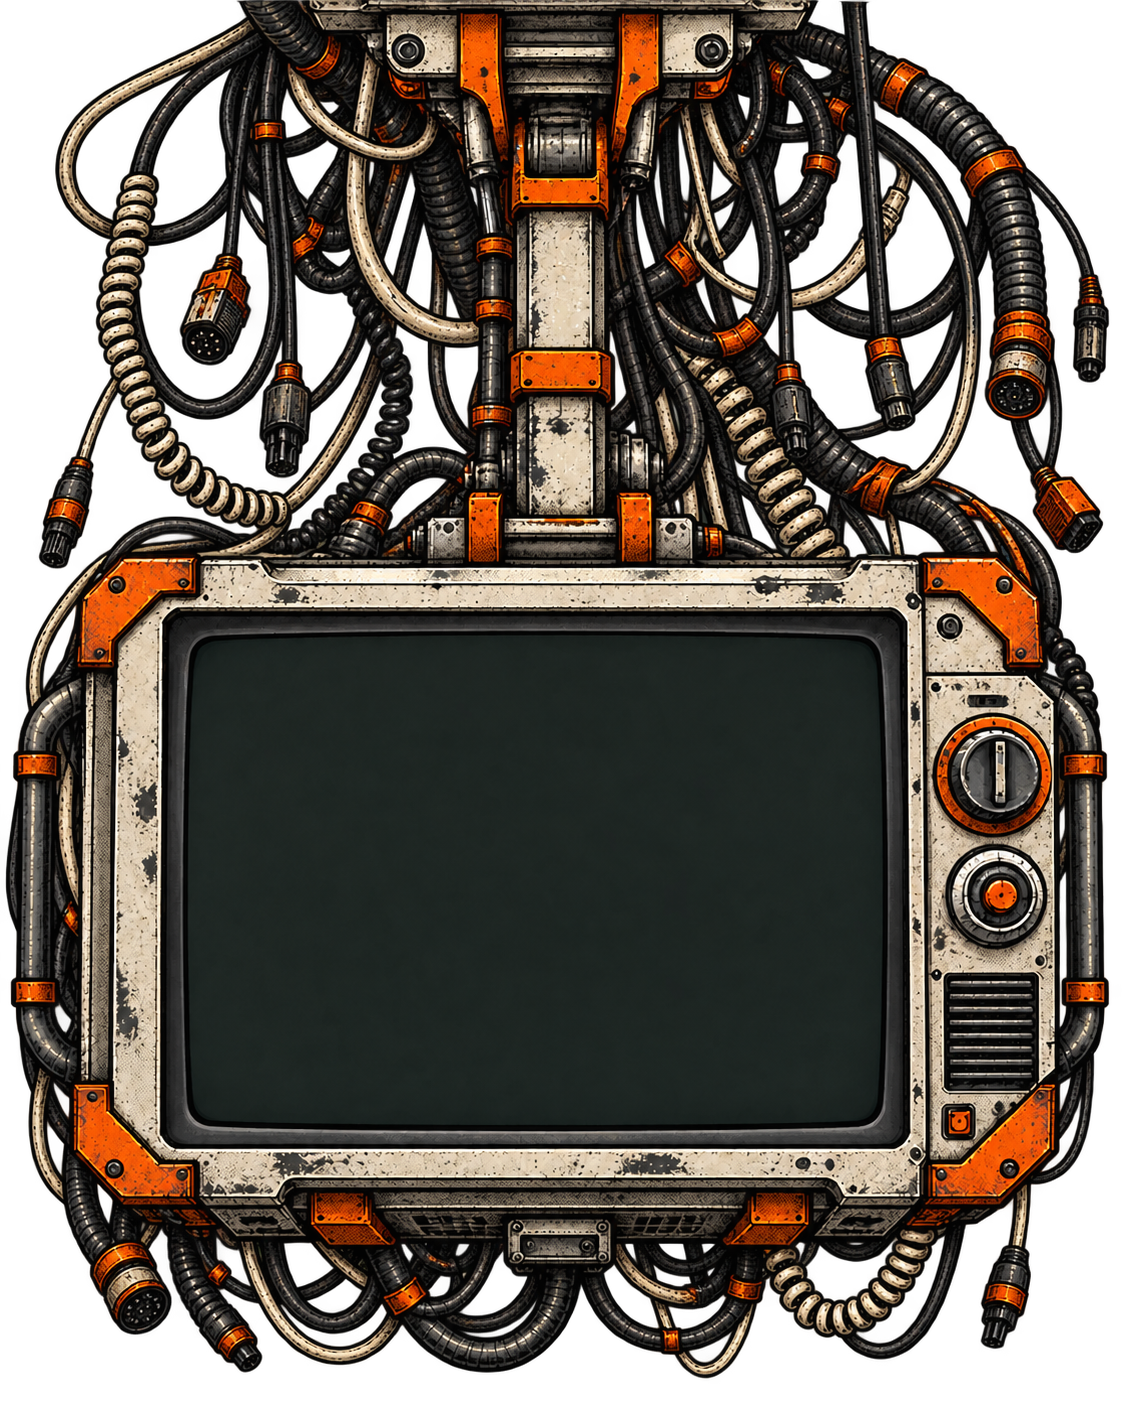
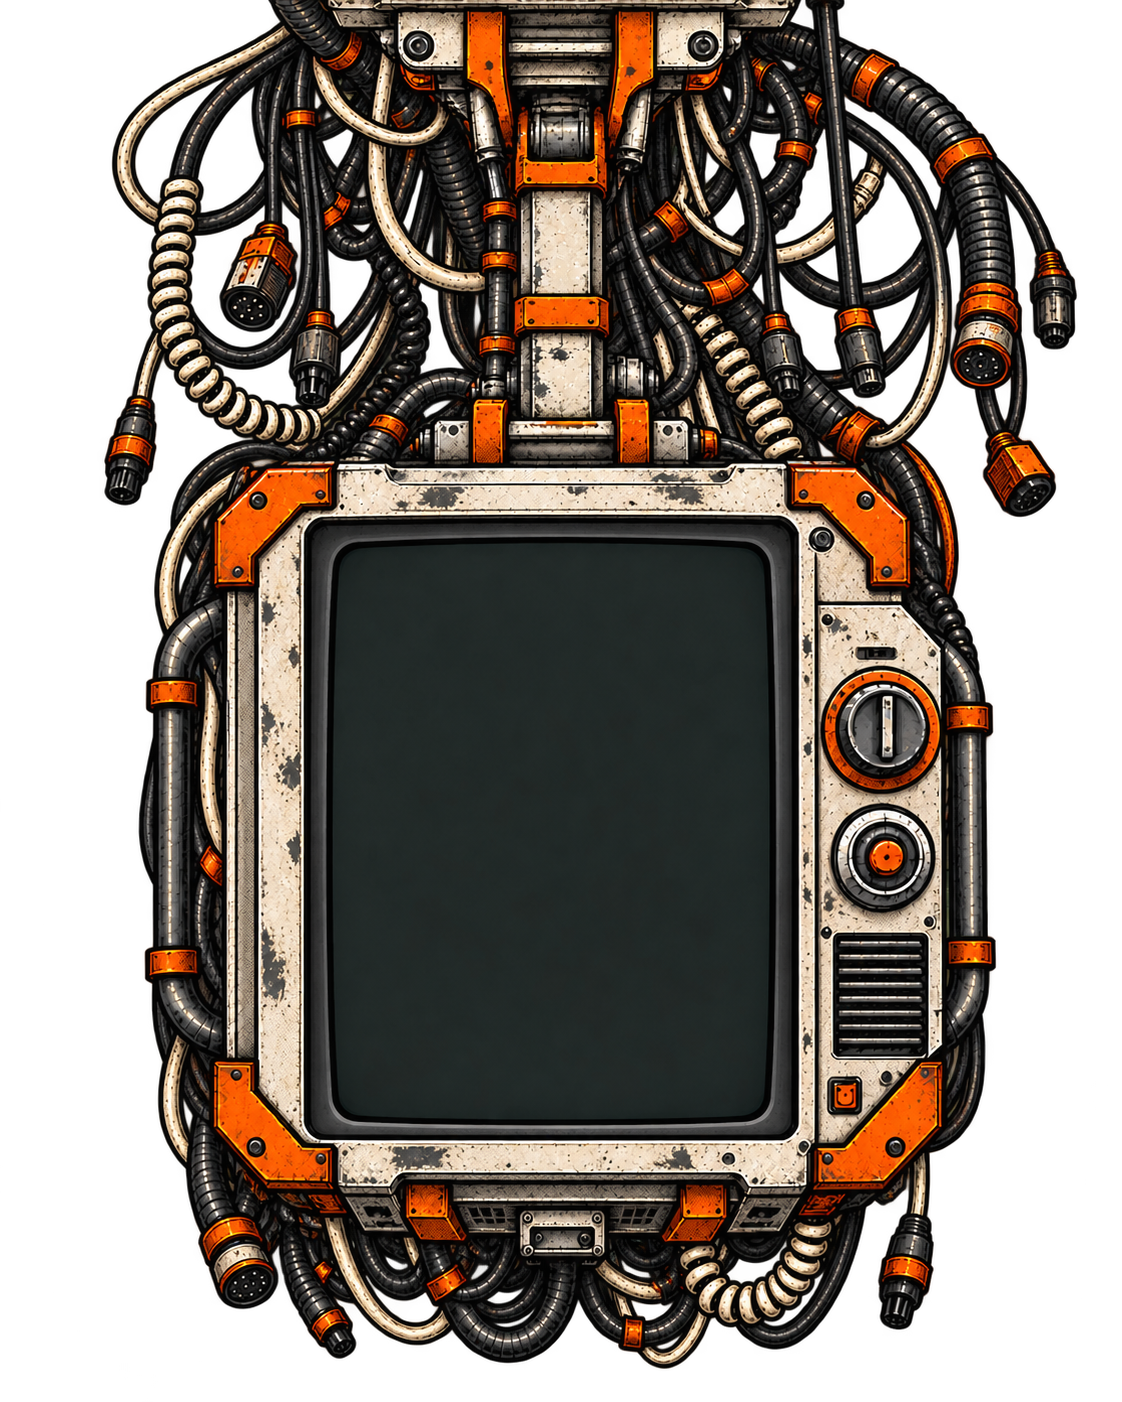
Redraw portrait TV and fill its screen with crew or join code

diff --git a/web/menu.css b/web/menu.css
@@ -168,7 +168,7 @@ button.selected {
 	position: absolute;
 	top: 0;
 	right: 20px;
-	width: 264px;
+	width: var(--crt-display-width, 264px);
 	pointer-events: none;
 }
 .crt-screen {
@@ -185,10 +185,11 @@ button.selected {
 	color: #cbe4c5;
 }
 .crt-avatar {
-	width: 48px;
-	height: 48px;
-	flex-shrink: 0;
-	object-fit: contain;
+	width: 100%;
+	height: calc(100% - 24px);
+	flex: 1;
+	min-height: 0;
+	object-fit: cover;
 	background: #15231a;
 	text-align: center;
 }
@@ -196,8 +197,10 @@ button.selected {
 	width: 100%;
 	font-size: 16px;
 	line-height: 20px;
-	margin-top: 4px;
-	max-height: 40px;
+	margin: 0;
+	height: 24px;
+	flex-shrink: 0;
+	background: #101918;
 	text-align: center;
 	overflow: hidden;
 	overflow-wrap: anywhere;

diff --git a/src/presentation/menu.cpp b/src/presentation/menu.cpp
@@ -47,6 +47,8 @@ struct NativeMenuScreen::State
 	float scutter_aspect = 1;
 	double panorama_phase = 0, panorama_period = 720;
 	float terminal_aspect = 1;
+	float terminal_width = 264;
+	std::map<std::string, Bytes> crew_portraits;
 	std::string join_qr_url;
 	TextureCache avatar_textures;
 	std::uint64_t avatar_screen = 0;
@@ -683,7 +685,8 @@ struct NativeMenuScreen::State
 						{
 							prepare_qr(app, lobby.code);
 							markup += "<div id=\"menu-profile\" class=\"menu-crt host-crt\"><div class=\"crt-screen\">"
-							          "<div id=\"menu-join-qr\"></div></div></div>";
+							          "<div id=\"menu-join-qr\"></div><p class=\"crt-name\">" +
+							          Rml::StringUtilities::EncodeRml(lobby.code) + "</p></div></div>";
 						}
 						catch (const std::exception &error)
 						{
@@ -1188,17 +1191,12 @@ struct NativeMenuScreen::State
 			for (auto *screen : screens)
 				screen->SetProperty("opacity", std::to_string(ambient.television_opacity()));
 		}
-		const float profile_width = compact ? 140.8f : 264.f;
+		const float profile_width = terminal_width * (compact ? .533333f : 1.f);
 		if (auto *profile = document.GetElementById("menu-profile"))
 		{
 			profile->SetProperty("width", std::to_string(profile_width) + "px");
 			profile->SetProperty("height", std::to_string(profile_width * terminal_aspect) + "px");
 			profile->SetProperty("font-size", compact ? "11px" : "16px");
-		}
-		if (auto *avatar = document.GetElementById("menu-profile-avatar"))
-		{
-			avatar->SetProperty("width", compact ? "24px" : "48px");
-			avatar->SetProperty("height", compact ? "24px" : "48px");
 		}
 		if (auto *title = document.GetElementById("menu-title"))
 		{
@@ -1342,7 +1340,7 @@ void NativeMenuScreen::draw(const Application &app, Rml::ElementDocument &docume
 	if (!app.native_menu || (app.screen != Screen::home && app.screen != Screen::server_lobby &&
 	                         app.screen != Screen::client_lobby && app.screen != Screen::settings))
 		return;
-	auto draw = [&](const std::string &id, Texture2D texture, bool integer_scale = false)
+	auto draw = [&](const std::string &id, Texture2D texture)
 	{
 		if (!texture.id)
 			return;
@@ -1371,9 +1369,16 @@ void NativeMenuScreen::draw(const Application &app, Rml::ElementDocument &docume
 			                 static_cast<int>(clip.height));
 			float scale =
 			    std::min(element->GetClientWidth() / texture.width, element->GetClientHeight() / texture.height);
-			if (integer_scale)
-				scale = std::floor(scale);
-			if (scale > 0)
+			const bool cover = id == "menu-profile-avatar";
+			if (cover)
+			{
+				const float w = element->GetClientWidth(), h = element->GetClientHeight();
+				const float fill = std::max(w / texture.width, h / texture.height);
+				DrawTexturePro(texture,
+				               {(texture.width - w / fill) / 2, (texture.height - h / fill) / 2, w / fill, h / fill},
+				               {at.x, at.y, w, h}, {0, 0}, 0, Fade(WHITE, state_->ambient.television_opacity()));
+			}
+			if (!cover && scale > 0)
 			{
 				const float width = texture.width * scale, height = texture.height * scale;
 				DrawTexturePro(texture, {0, 0, static_cast<float>(texture.width), static_cast<float>(texture.height)},
@@ -1422,9 +1427,11 @@ void NativeMenuScreen::draw(const Application &app, Rml::ElementDocument &docume
 		}
 	if (!app.avatar.empty())
 	{
+		const auto key = sha256(app.avatar);
+		const auto &portrait = state_->crew_portraits.contains(key) ? state_->crew_portraits.at(key) : app.avatar;
 		draw("profile-avatar", state_->avatar_textures.load(sha256(app.avatar), app.avatar));
 		if (app.screen != Screen::settings && !app.packs_popup)
-			draw("menu-profile-avatar", state_->avatar_textures.load(sha256(app.avatar), app.avatar));
+			draw("menu-profile-avatar", state_->avatar_textures.load(key + "/portrait", portrait));
 	}
 	if (app.session)
 		for (const auto &member : app.session->lobby().members)
@@ -1432,7 +1439,7 @@ void NativeMenuScreen::draw(const Application &app, Rml::ElementDocument &docume
 				draw("avatar-" + member.id, state_->avatar_textures.load(sha256(member.avatar), member.avatar));
 	if (app.can_host && app.screen == Screen::server_lobby && !app.packs_popup)
 	{
-		draw("menu-join-qr", state_->join_qr, true);
+		draw("menu-join-qr", state_->join_qr);
 	}
 }
 std::string NativeMenuScreen::style_sheet(const std::string &asset_directory)
@@ -1450,7 +1457,12 @@ std::string NativeMenuScreen::style_sheet(const std::string &asset_directory)
 	};
 	state_->avatar_directory = asset_directory + "/menu";
 	for (int i = 1; i <= 12; ++i)
+	{
 		state_->avatars.push_back(read_file(state_->avatar_directory + "/avatar-" + std::to_string(i) + ".png", 12288));
+		state_->crew_portraits.emplace(
+		    sha256(state_->avatars.back()),
+		    read_file(state_->avatar_directory + "/portrait-" + std::to_string(i) + ".png", 512 * 1024));
+	}
 	state_->button_skin = load("button-generic-9slice.sprite.json", .075f);
 	if (!state_->button_skin.has_label)
 		throw std::runtime_error("Menu button sidecar needs label_center");
@@ -1522,6 +1534,7 @@ std::string NativeMenuScreen::style_sheet(const std::string &asset_directory)
 	if (x < 0 || y < 0 || width <= 0 || height <= 0 || x + width > terminal_width || y + height > terminal_height)
 		throw std::runtime_error("Invalid CRT screen aperture");
 	state_->terminal_aspect = terminal_height / terminal_width;
+	state_->terminal_width = terminal.value("display_width", 264.f);
 	std::string styles = state_->button_skin.sprite_sheet("menu-button") + panel.sprite_sheet("menu-panel");
 	styles += "#native-menu { background:transparent; decorator:image(menu/" +
 	          scene.at("foreground").at("file").get<std::string>() + " cover); }\n";
@@ -1589,11 +1602,11 @@ std::string NativeMenuScreen::style_sheet(const std::string &asset_directory)
     .menu-crt { display:block; position:relative; flex-shrink:0; }
     #menu-profile { position:absolute; top:0; right:20px; border:0px; background:transparent; padding:0px; }
     .crt-screen { position:absolute; display:flex; flex-direction:column; align-items:center; justify-content:center; overflow:hidden; color:#cbe4c5; }
-    .crt-avatar { display:block; flex-shrink:0; text-align:center; background:#15231a; color:#cbe4c5; }
-    #native-menu .crt-name { display:block; width:100%; text-align:center; font-size:1em; margin:4px 0 0; max-height:40px; overflow:hidden; }
+    .crt-avatar { display:block; width:100%; height:85%; flex-shrink:0; text-align:center; background:#15231a; color:#cbe4c5; }
+    #native-menu .crt-name { display:block; width:100%; height:15%; text-align:center; font-size:1em; margin:0; overflow:hidden; background:#101918; }
     .qr-crt { display:block; position:relative; width:440px; overflow:hidden; clip:always; }
     .qr-terminal { position:absolute; left:0; width:440px; }
-    #menu-join-qr { display:block; width:100%; height:100%; }
+    #menu-join-qr { display:block; width:100%; height:85%; }
     )";
 	return styles;
 }

diff --git a/src/presentation/consoles.hpp b/src/presentation/consoles.hpp
@@ -9,6 +9,8 @@ class ConsoleSurface final : public Rml::EventListener
 	bool profile_open_ = false;
 	std::string profile_name_;
 	Bytes profile_avatar_;
+	Json terminal_;
+	std::map<std::string, Bytes> crew_portraits_;
 	Rml::Context *context_ = nullptr;
 	Rml::ElementDocument *document_ = nullptr;
 	ConsoleModel model_;
@@ -98,6 +100,12 @@ public:
 	explicit ConsoleSurface(ConsoleId route, const std::string &prefix = "console-", bool toolbar = true)
 	    : route_(route), context_name_(prefix + std::to_string(route)), toolbar_enabled_(toolbar)
 	{
+		terminal_ =
+		    parse_json(read_file(asset_path("../menu/menu-scene.json"), 64 * 1024), "menu scene").at("terminal");
+		for (int i = 1; i <= 12; ++i)
+			crew_portraits_.emplace(
+			    sha256(read_file(asset_path("../menu/avatar-" + std::to_string(i) + ".png"), 12288)),
+			    read_file(asset_path("../menu/portrait-" + std::to_string(i) + ".png"), 512 * 1024));
 		context_ = Rml::CreateContext(context_name_, {1280, 720});
 		if (!context_)
 			throw std::runtime_error("Cannot create independent Console context");
@@ -122,7 +130,7 @@ p {display:block;font-size:17px;margin:4px 0;}
 .throttle sliderbar {width:100%;background:transparent;}
 .heading-value:focus {border-color:#ffb665;background:#122629;}
 .throttle sliderarrowdec,.throttle sliderarrowinc {display:none;}
-.ready-card {position:absolute;left:10%;top:350px;width:80%;box-sizing:border-box;padding:28px;background:#0b1719ee;border:2px #d48a48;}
+.ready-card {position:absolute;left:10%;top:390px;width:80%;box-sizing:border-box;padding:28px;background:#0b1719ee;border:2px #d48a48;}
 .profile-card {top:18%;}
 .ready-card h1 {display:block;font-size:32px;}
 .ready-card button {min-width:120px;}
@@ -557,8 +565,19 @@ p {display:block;font-size:17px;margin:4px 0;}
 			if (pregame)
 			{
 				button("profile", "Edit profile");
-				lobby += "<button id=\"" + id("profile") + "\" class=\"profile-tv\"><img src=\"" +
-				         asset_path("../menu/crt-terminal.png") + "\" width=\"264\"/><span>" +
+				const float tw = terminal_.value("display_width", 264.f), sw = terminal_.at("size").at(0),
+				            sh = terminal_.at("size").at(1);
+				const auto &aperture = terminal_.at("screen");
+				const float ax = aperture.at("x"), ay = aperture.at("y"), aw = aperture.at("width"),
+				            ah = aperture.at("height");
+				lobby += "<button id=\"" + id("profile") +
+				         "\" class=\"profile-tv\" style=\"width:" + std::to_string(tw) +
+				         "px;height:" + std::to_string(tw * sh / sw) + "px\"><img src=\"" +
+				         asset_path("../menu/crt-terminal.png") + "\" width=\"" + std::to_string(tw) +
+				         "\"/><span style=\"left:" + std::to_string(ax / sw * 100) +
+				         "%;top:" + std::to_string((ay + ah * .85f) / sh * 100) +
+				         "%;width:" + std::to_string(aw / sw * 100) +
+				         "%;height:" + std::to_string(ah * .15f / sh * 100) + "%;background:#101918;font-size:16px\">" +
 				         Rml::StringUtilities::EncodeRml(profile_name_) + "</span></button>";
 				if (profile_open_)
 				{
@@ -866,8 +885,19 @@ p {display:block;font-size:17px;margin:4px 0;}
 		if (app_->session->lobby().active && !app_->session->lobby().launched && !profile_open_ &&
 		    !profile_avatar_.empty())
 		{
-			const auto texture = radar_textures_.load(sha256(profile_avatar_), profile_avatar_);
-			image(texture, {region.x + region.width - 184, region.y + 172, 48, 48});
+			const auto key = sha256(profile_avatar_);
+			const auto &portrait = crew_portraits_.contains(key) ? crew_portraits_.at(key) : profile_avatar_;
+			const auto texture = radar_textures_.load(key + "/portrait", portrait);
+			const float tw = terminal_.value("display_width", 264.f), sw = terminal_.at("size").at(0), scale = tw / sw;
+			const auto &screen = terminal_.at("screen");
+			const float x = screen.at("x"), y = screen.at("y"), w = screen.at("width"), h = screen.at("height");
+			const Rectangle area{region.x + region.width - 20 - tw + x * scale, region.y + y * scale, w * scale,
+			                     h * .85f * scale};
+			const float fill = std::max(area.width / texture.width, area.height / texture.height);
+			DrawTexturePro(texture,
+			               {(texture.width - area.width / fill) / 2, (texture.height - area.height / fill) / 2,
+			                area.width / fill, area.height / fill},
+			               area, {0, 0}, 0, WHITE);
 		}
 	}
 

diff --git a/content/ui/menu/portrait-tv.md b/content/ui/menu/portrait-tv.md
@@ -1,0 +1,9 @@
+# Portrait terminal revision
+
+The terminal was edited with built-in imagegen from `crt-terminal.png`. Prompt: preserve the gritty British sci-fi comic artwork, cream and worn orange casing, knobs, overhead mount and cables; redraw the blank CRT as a taller, narrower portrait display with approximately the same screen area; flat front view, no face, text or QR, transparent exterior.
+
+The resulting image is 1122 by 1402 pixels. `menu-scene.json` records its new aperture and presentation width. The displayed aperture area is within 1% of the preceding landscape screen. Portraits fill the aperture above the name strip; QR codes fit the largest square above the join-code strip, preserving their quiet zone.
+
+`portrait-1.png` through `portrait-12.png` are 192-pixel display copies of the approved naval crew artwork. The original 48-pixel `avatar-*` files remain the network/profile representation. Exact matching of these built-in avatars selects the larger local portrait; custom uploads remain supported.
+
+Native and all web roles built. The two-region native smoke passed, including independent profile editing and readiness. Browser desktop rendering and the native QR/profile layout were visually inspected. Phone-camera QR scanning remains a device check.
